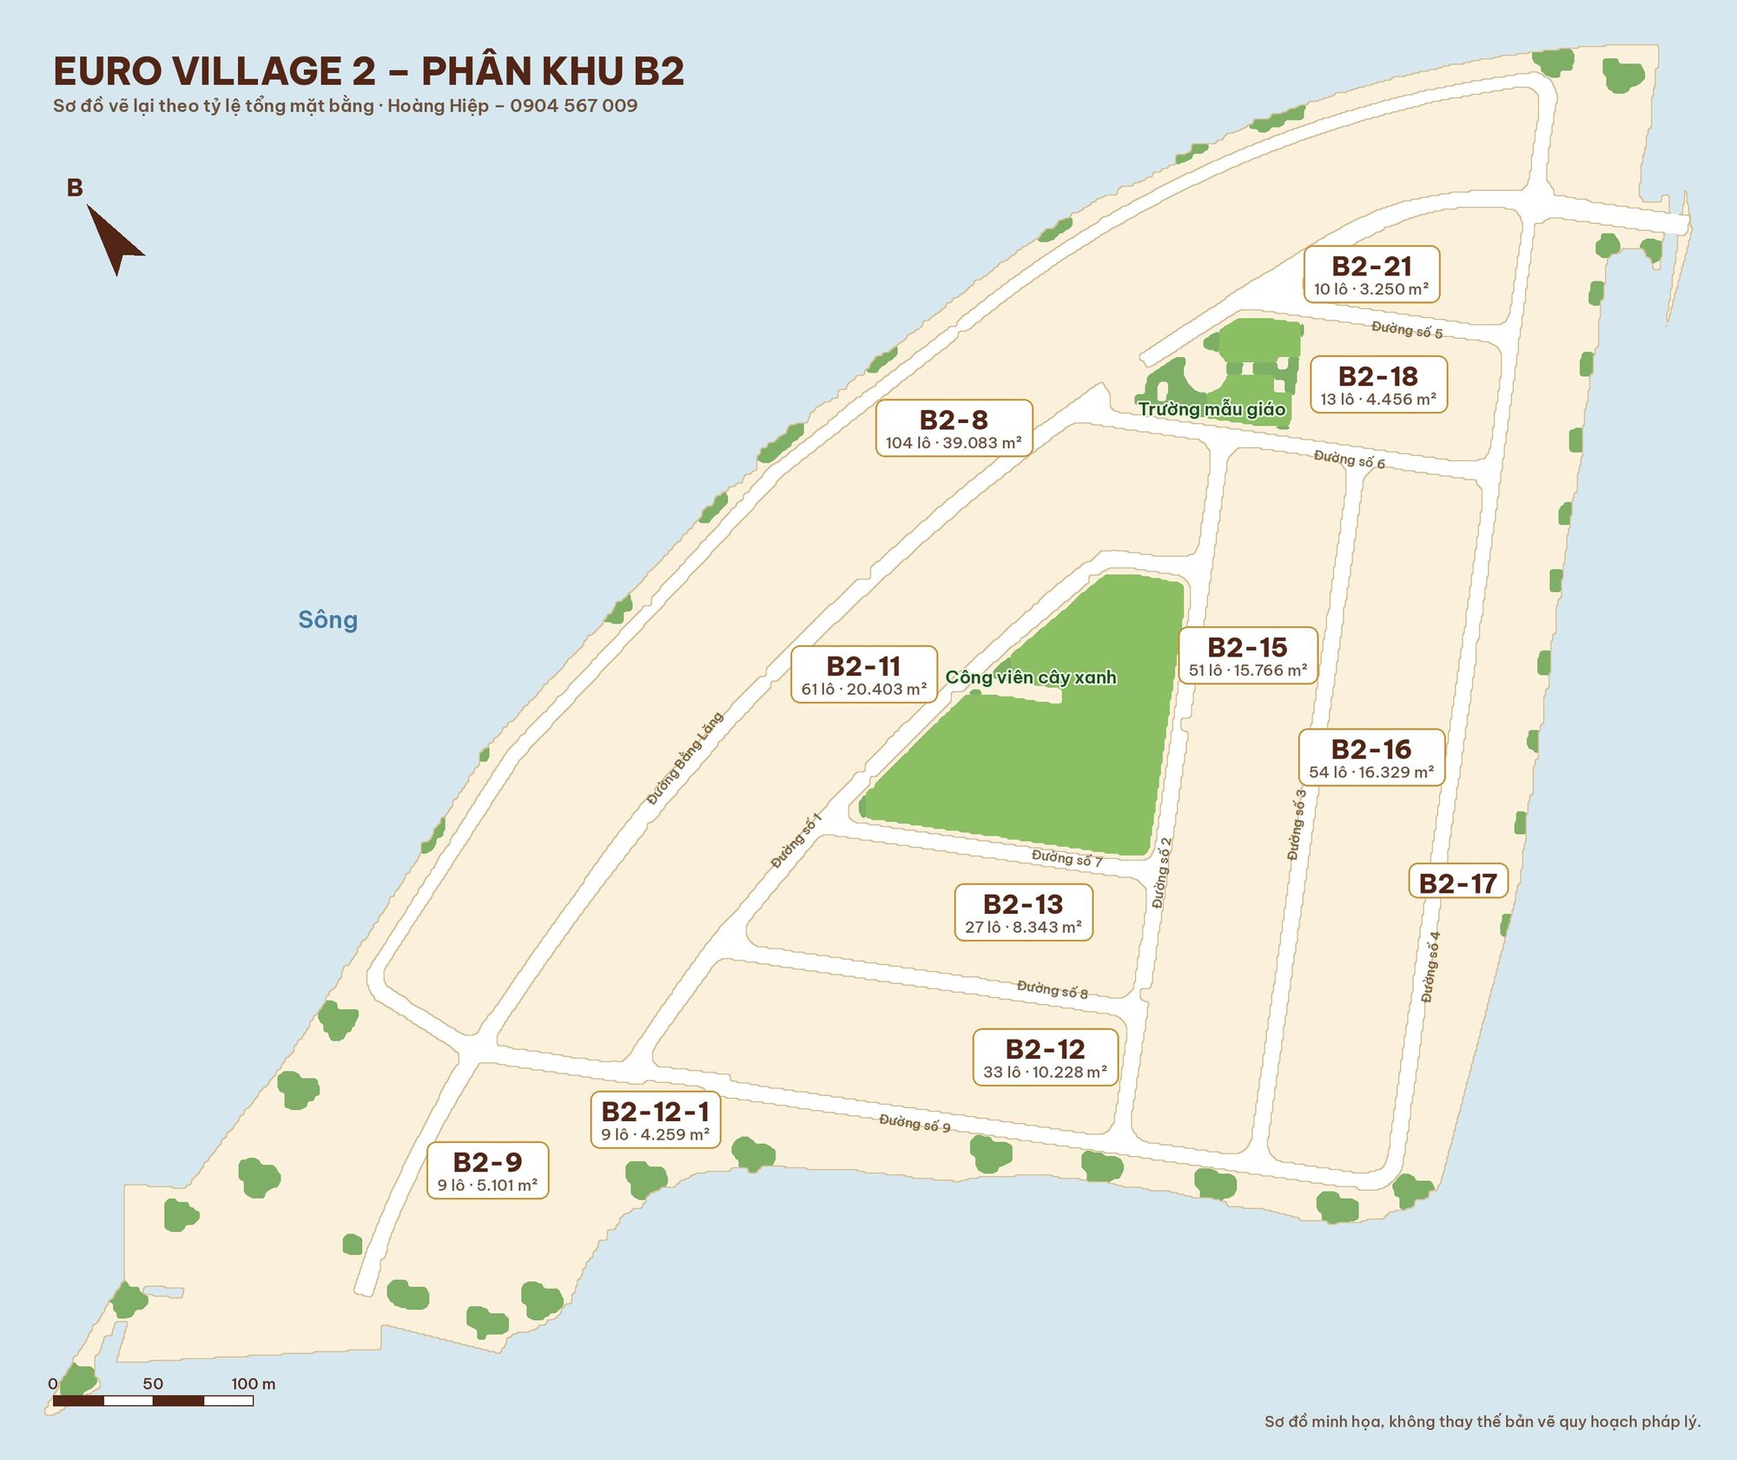
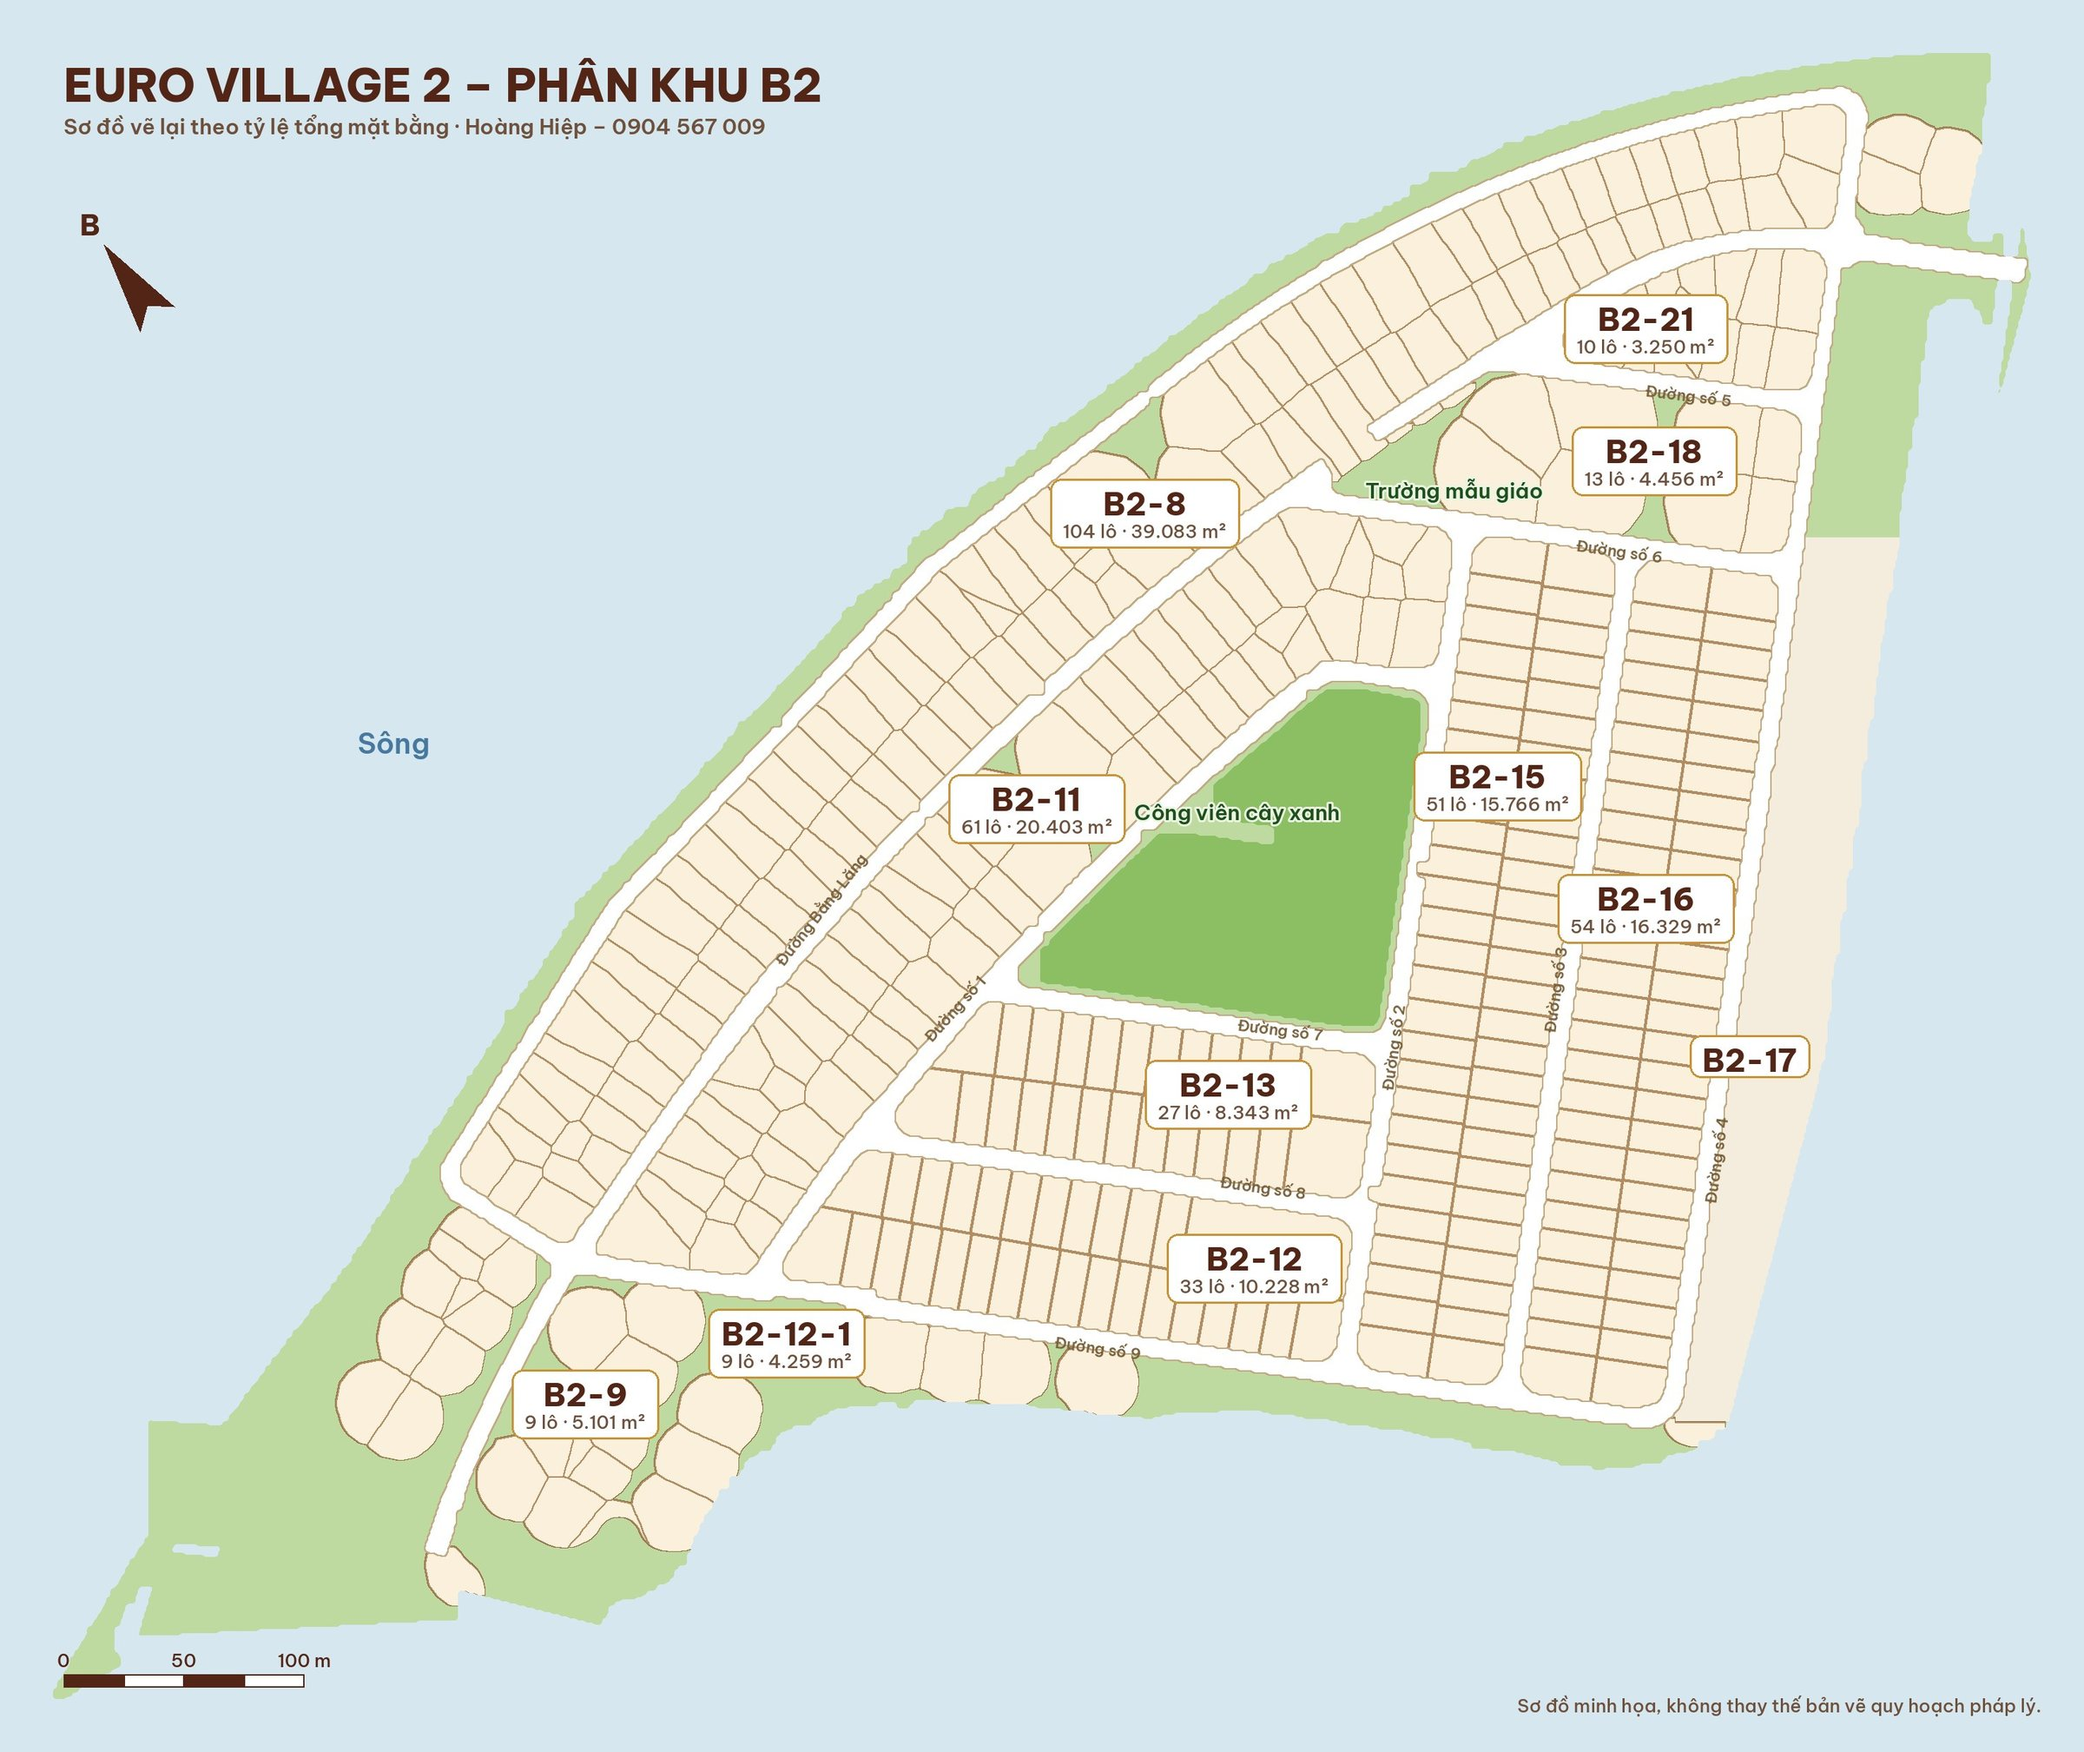
Euro Village 2: sơ đồ chia lô, căn bản đồ bằng 2 điểm (2.20.274)
Claude-Session: https://claude.ai/code/session_011HGb6VAzLiwbq5KWLxGuh9

diff --git a/wordpress/wp-content/mu-plugins/hh-crm/mat-bang-ban-do.php b/wordpress/wp-content/mu-plugins/hh-crm/mat-bang-ban-do.php
@@ -23,6 +23,10 @@ function hh_mbbd_plans() {
 			'width_m' => $w * 0.88 / 3, // ≈ 865 m: đo theo Đường số 6 (204 m), số 7 (164 m), số 8 (204 m), số 4 (471 m).
 			'bearing' => 35.7,          // Hướng phía trên ảnh so với Bắc thật (theo mũi tên Bắc trên bản vẽ).
 			'center'  => array( 16.02494, 108.23030 ), // Plus Code 26FJ+X4F (đường Giáng Hương 6, trong Euro Village 2) – admin kéo cho khớp rồi Lưu.
+			'anchors' => array(
+				array( 'Tâm vòng tròn trong công viên', 0.6151, 0.4996 ),
+				array( 'Góc Đông Nam: Đường số 4 giao Đường số 9', 0.8015, 0.8068 ),
+			),
 			'labels'  => array(
 				$l( 'B2-8', '104 lô · 39.083 m²', 1620, 726 ),
 				$l( 'B2-11', '61 lô · 20.403 m²', 1467, 1144 ),
@@ -85,6 +89,7 @@ add_action(
 			'bearing' => $p['bearing'],
 			'center'  => $p['center'],
 			'labels'  => $p['labels'],
+			'anchors' => $p['anchors'] ?? array(),
 			'saved'   => is_array( $saved ) ? $saved : null,
 			'admin'   => $admin,
 			'ajax'    => admin_url( 'admin-ajax.php' ),
@@ -101,7 +106,10 @@ add_action(
 	<span style="flex-basis:100%;color:#8a4b1c"><b>Admin:</b> kéo chấm đỏ để dời sơ đồ, xoay / co giãn cho khớp đường trên ảnh vệ tinh rồi bấm Lưu. Khách chỉ thấy bản đồ sau khi Lưu.</span>
 	<button type="button" data-k="r-1">⟲ 1°</button><button type="button" data-k="r-.2">⟲ 0,2°</button><button type="button" data-k="r.2">⟳ 0,2°</button><button type="button" data-k="r1">⟳ 1°</button>
 	<button type="button" data-k="s-1">− 1%</button><button type="button" data-k="s1">+ 1%</button>
-	<input type="text" data-k="ll" placeholder="Dán tọa độ Google Maps, VD 16.0249, 108.2303" style="min-width:260px;padding:5px 8px"><button type="button" data-k="go">Dời tâm tới</button>
+	<span style="flex-basis:100%;margin-top:4px"><b>Căn nhanh bằng 2 điểm</b> (tự tính vị trí, góc xoay, tỷ lệ): mở Google Maps chế độ vệ tinh → bấm chuột phải đúng điểm → bấm dòng tọa độ để sao chép → dán vào ô.</span>
+	<label style="flex-basis:100%">① <?php echo esc_html( $p['anchors'][0][0] ?? '' ); ?>: <input type="text" data-k="a1" placeholder="VD 16.02494, 108.23030" style="min-width:240px;padding:5px 8px"></label>
+	<label style="flex-basis:100%">② <?php echo esc_html( $p['anchors'][1][0] ?? '' ); ?>: <input type="text" data-k="a2" placeholder="(bỏ trống nếu chỉ dời vị trí)" style="min-width:240px;padding:5px 8px"></label>
+	<button type="button" data-k="go" style="background:#c99234;color:#fff;border:0">Căn theo điểm</button>
 	<button type="button" data-k="save" style="background:#532516;color:#fff;border:0;border-radius:6px;padding:6px 14px">Lưu vị trí</button>
 	<button type="button" data-k="reset">Bỏ vị trí đã lưu</button>
 	<span data-k="st" style="color:#555"></span>
@@ -164,15 +172,35 @@ add_action(
 	var msg = bar.querySelector('[data-k=st]');
 	function show() { msg.textContent = st.lat.toFixed(6) + ', ' + st.lng.toFixed(6) + ' · xoay ' + st.rot.toFixed(1) + '° · tỷ lệ ' + Math.round(st.sc * 100) + '%'; }
 	var pin = L.marker([st.lat, st.lng], { draggable: true, zIndexOffset: 1000, icon: L.divIcon({ className: '', html: '<div style="width:22px;height:22px;border-radius:50%;background:#d33;border:3px solid #fff;box-shadow:0 0 6px #000;transform:translate(-50%,-50%)"></div>', iconSize: null }) }).addTo(map);
+	var anc = L.layerGroup().addTo(map);
+	function drawAnchors() { anc.clearLayers(); (C.anchors || []).forEach(function (k, i) { L.marker(ll(k[1], k[2]), { interactive: false, icon: L.divIcon({ className: '', html: '<div style="transform:translate(-50%,-50%);width:24px;height:24px;border-radius:50%;background:#1d4ed8;color:#fff;font:700 13px/24px sans-serif;text-align:center;border:2px solid #fff;box-shadow:0 0 5px #000">' + (i + 1) + '</div>', iconSize: null }) }).addTo(anc); }); }
+	drawAnchors();
+	map.on('zoomend', drawAnchors);
 	pin.on('drag', function (ev) { var p = ev.target.getLatLng(); st.lat = p.lat; st.lng = p.lng; place(); show(); });
-	pin.on('dragend', function () { drawLabels(); });
+	pin.on('dragend', function () { drawLabels(); drawAnchors(); });
 	bar.querySelectorAll('button[data-k]').forEach(function (b) {
 		b.addEventListener('click', function () {
 			var k = b.getAttribute('data-k');
 			if (k === 'go') {
-				var v = (bar.querySelector('[data-k=ll]').value.match(/-?\d+(?:\.\d+)?/g) || []).map(parseFloat);
-				if (v.length < 2) { msg.textContent = 'Chưa đọc được tọa độ.'; return; }
-				st.lat = v[0]; st.lng = v[1]; pin.setLatLng([st.lat, st.lng]); map.setView([st.lat, st.lng]); place(); drawLabels(); show(); return;
+				var rd = function (n) { var v = (bar.querySelector('[data-k=' + n + ']').value.match(/-?\d+(?:\.\d+)?/g) || []).map(parseFloat); return v.length >= 2 ? L.latLng(v[0], v[1]) : null; };
+				var A1 = rd('a1'), A2 = rd('a2'), K = C.anchors;
+				if (!A1 || !K[0]) { msg.textContent = 'Chưa đọc được tọa độ điểm ①.'; return; }
+				var cosl = Math.cos(A1.lat * Math.PI / 180), M = 111320;
+				if (A2 && K[1]) {
+					var w = C.width, h = w * C.ratio;
+					var ix = (K[1][1] - K[0][1]) * w, iy = (K[0][2] - K[1][2]) * h;
+					var gE = (A2.lng - A1.lng) * M * cosl, gN = (A2.lat - A1.lat) * M;
+					var li = Math.sqrt(ix * ix + iy * iy), lg = Math.sqrt(gE * gE + gN * gN);
+					st.sc = lg / li;
+					st.rot = (Math.atan2(iy, ix) - Math.atan2(gN, gE)) * 180 / Math.PI;
+					st.rot = ((st.rot % 360) + 540) % 360 - 180;
+				}
+				st.lat = A1.lat; st.lng = A1.lng;
+				var q = ll(K[0][1], K[0][2]);
+				st.lat -= q.lat - A1.lat; st.lng -= q.lng - A1.lng;
+				pin.setLatLng([st.lat, st.lng]); map.fitBounds(L.latLngBounds([ll(0, 0), ll(1, 0), ll(0, 1), ll(1, 1)])); place(); drawLabels(); drawAnchors(); show();
+				if (A2 && (st.sc < .8 || st.sc > 1.25)) { msg.textContent += ' – tỷ lệ lệch nhiều, kiểm tra lại 2 điểm đã dán đúng chỗ chưa.'; }
+				return;
 			}
 			if (k !== 'save' && k !== 'reset') {
 				if (k.charAt(0) === 'r') { st.rot += parseFloat(k.slice(1)); } else { st.sc *= 1 + parseFloat(k.slice(1)) / 100; }
@@ -187,7 +215,7 @@ add_action(
 				});
 				return;
 			}
-			place(); drawLabels(); show();
+			place(); drawLabels(); drawAnchors(); show();
 		});
 	});
 	show();

diff --git a/wordpress/packaging/hoang-hiep-crm.php b/wordpress/packaging/hoang-hiep-crm.php
@@ -2,7 +2,7 @@
 /**
  * Plugin Name: Hoàng Hiệp CRM
  * Description: Dự án, nhà đất mua bán / cho thuê, khách hàng tiềm năng và dữ liệu dự án Đà Nẵng cho hiephoangmt.com. Dùng kèm giao diện Hoàng Hiệp.
- * Version: 2.20.273
+ * Version: 2.20.274
  * Author: Hoàng Hiệp
  * Requires PHP: 7.4
  */
@@ -14,7 +14,7 @@ if ( defined( 'HH_CRM_VERSION' ) ) {
 	return;
 }
 
-define( 'HH_CRM_VERSION', '2.20.273' );
+define( 'HH_CRM_VERSION', '2.20.274' );
 define( 'HH_CRM_DIR', __DIR__ . '/hh-crm/' );
 define( 'HH_CRM_URL', plugin_dir_url( __FILE__ ) . 'hh-crm/' );
 

diff --git a/wordpress/wp-content/mu-plugins/hh-crm.php b/wordpress/wp-content/mu-plugins/hh-crm.php
@@ -2,7 +2,7 @@
 /**
  * Plugin Name: Hoàng Hiệp CRM
  * Description: Dự án, nhà đất mua bán / cho thuê và khách hàng tiềm năng cho hiephoangmt.com.
- * Version: 2.20.273
+ * Version: 2.20.274
  * Author: Hoàng Hiệp
  */
 
@@ -13,7 +13,7 @@ if ( defined( 'HH_CRM_VERSION' ) ) {
 	return;
 }
 
-define( 'HH_CRM_VERSION', '2.20.273' );
+define( 'HH_CRM_VERSION', '2.20.274' );
 define( 'HH_CRM_DIR', __DIR__ . '/hh-crm/' );
 define( 'HH_CRM_URL', WPMU_PLUGIN_URL . '/hh-crm/' );
 

diff --git a/wordpress/GHI-CHU-CAP-NHAT.md b/wordpress/GHI-CHU-CAP-NHAT.md
@@ -1,6 +1,6 @@
 # Gói cập nhật hiephoangmt.com – 12/10/2026
 
-**File cài:** `hoang-hiep-tron-goi.zip` (giao diện Hoàng Hiệp **2.16.31** + plugin Hoàng Hiệp CRM **2.20.273**) · cập nhật nhanh bằng điện thoại: `cap-nhat-nhanh.zip`
+**File cài:** `hoang-hiep-tron-goi.zip` (giao diện Hoàng Hiệp **2.16.31** + plugin Hoàng Hiệp CRM **2.20.274**) · cập nhật nhanh bằng điện thoại: `cap-nhat-nhanh.zip`
 **Xem trước:** https://claude.ai/artifact/ACKuFhbbb8yj5VoU8Ty9X7 (riêng tư – bấm Chia sẻ nếu muốn gửi người khác)
 
 ## Cài đặt từng bước (khoảng 10 phút)
@@ -40,6 +40,11 @@ Hình minh hoạ từng bước: thư mục `huong-dan/` (cai-1 … cai-4, inter
 Kẹt ở bước nào: chụp màn hình gửi lại.
 
 Ô / bài anh đã tự sửa trong quản trị **không bị ghi đè** khi nhập dữ liệu.
+
+## Có gì mới – 2.20.274 (14/11/2026)
+
+- **Euro Village 2 – sơ đồ có chia lô:** vẽ lại ranh từng lô theo vị trí lô trên tổng mặt bằng (các dãy B2-12, B2-13, B2-15, B2-16 kẻ thẳng; dãy cong B2-8, B2-11 theo đường cong). Dải ven sông, ven kênh tô xanh (cây xanh), B2-17 để nền trơn (bản vẽ chưa chia lô). Vẫn là sơ đồ minh họa.
+- **Gắn lên bản đồ bằng 2 điểm (admin):** dán tọa độ Google Maps của ① tâm vòng tròn trong công viên và ② góc Đường số 4 giao Đường số 9 → bấm **Căn theo điểm**: tự tính vị trí, góc xoay và tỷ lệ; 2 chấm xanh ①② hiện trên sơ đồ để đối chiếu → **Lưu vị trí**.
 
 ## Có gì mới – 2.20.273 (14/11/2026)
 
